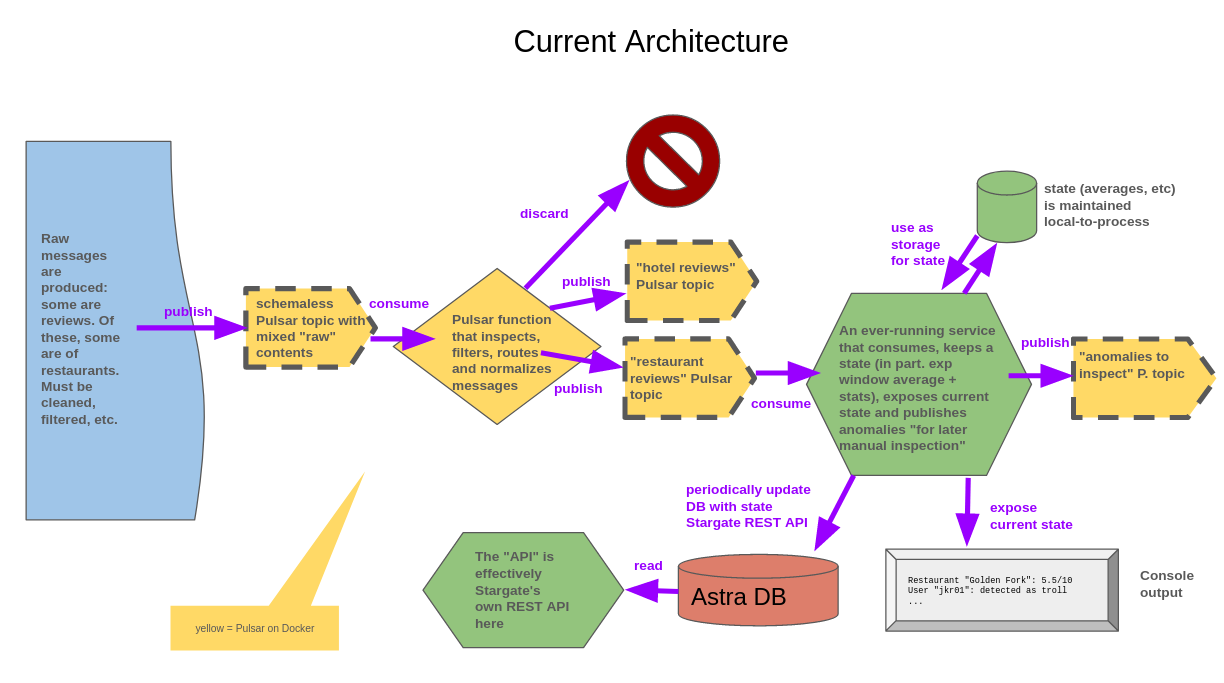
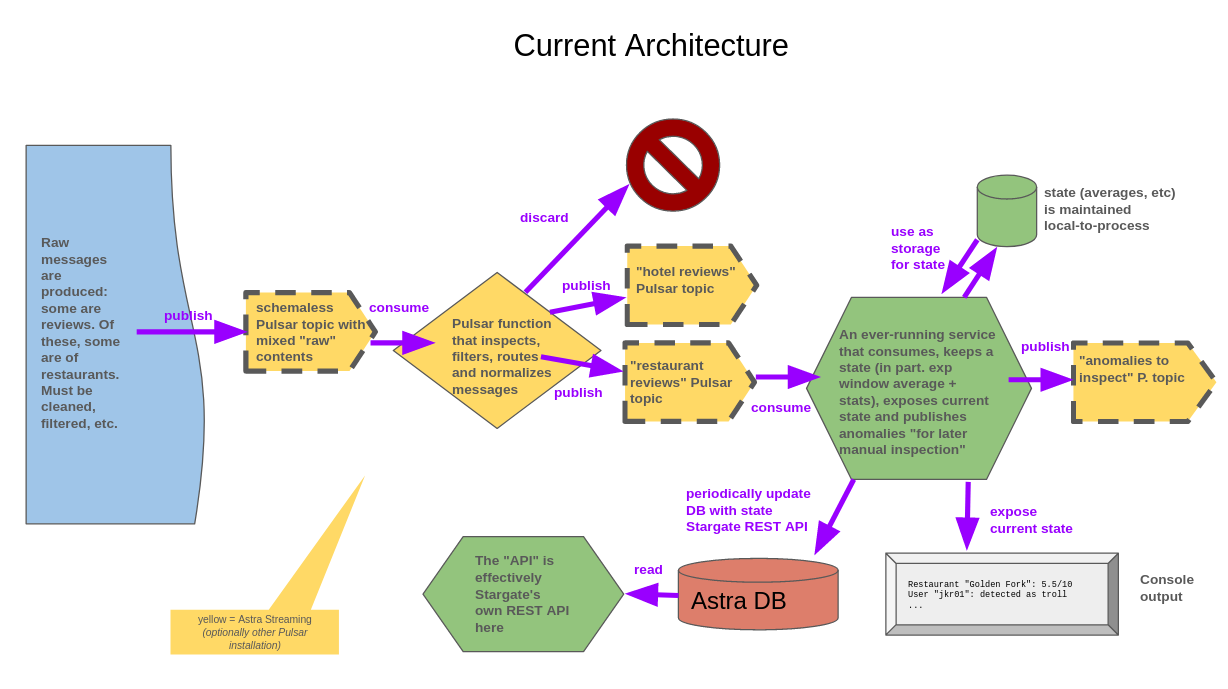
Pulsar -> Astra Streaming

diff --git a/pulsarTools/tools.py b/pulsarTools/tools.py
@@ -1,0 +1,47 @@
+""" tools.py """
+
+import os
+import pulsar
+
+from dotenv import load_dotenv
+
+
+load_dotenv()
+
+
+def _getRegularPulsarClient():
+    """Specialization for regular Pulsar."""
+    PULSAR_CLIENT_URL = os.environ['PULSAR_CLIENT_URL']
+    client = pulsar.Client(PULSAR_CLIENT_URL)
+    return client
+
+
+def _getAstraStreamingClient():
+    """Specialization for Astra Streaming connection."""
+    # Certificate location:
+    # Mac (also need 'brew install libpulsar')
+    # TRUST_CERTS = "/etc/ssl/cert.pem"
+    # RHEL/CentOS:
+    # TRUST_CERTS = '/etc/ssl/certs/ca-bundle.crt'
+    # Debian/Ubuntu:
+    TRUST_CERTS = '/etc/ssl/certs/ca-certificates.crt'
+    #
+    ASTRA_STREAMING_BROKER_URL = os.environ['ASTRA_STREAMING_BROKER_URL']
+    ASTRA_STREAMING_TOKEN = os.environ['ASTRA_STREAMING_TOKEN']
+    client = pulsar.Client(
+        ASTRA_STREAMING_BROKER_URL,
+        authentication=pulsar.AuthenticationToken(ASTRA_STREAMING_TOKEN),
+        tls_trust_certs_file_path=TRUST_CERTS,
+    )
+    return client
+
+
+def getPulsarClient():
+    """Create a Pulsar connection by using the dotenv variables."""
+    PULSAR_MODE = os.environ['PULSAR_MODE']
+    if PULSAR_MODE == 'pulsar':
+        return _getRegularPulsarClient()
+    elif PULSAR_MODE == 'astra_streaming':
+        return _getAstraStreamingClient()
+    else:
+        raise NotImplementedError('Unknown PULSAR_MODE detected')

diff --git a/revAnalyzer/review_analyzer.py b/revAnalyzer/review_analyzer.py
@@ -1,6 +1,5 @@
 #!/usr/bin/env python
 
-import pulsar
 import argparse
 import sys
 import json
@@ -8,11 +7,12 @@ import os
 from dotenv import load_dotenv
 import atexit
 
-from ReviewState import ReviewState
-from database.dataStorage import (initDB, updateReviewer, updateRestaurant,
-                                  updateIdSet)
+from pulsarTools.tools import getPulsarClient
+from revAnalyzer.ReviewState import ReviewState
+from revAnalyzer.database.dataStorage import (initDB, updateReviewer,
+                                              updateRestaurant, updateIdSet)
 
-from settings import (
+from revAnalyzer.settings import (
     ROLLING_AVERAGE_ALPHA,
     TROLLISH_S_THRESHOLD,
     TROLLISH_MIDREGION_WIDTH,
@@ -49,13 +49,12 @@ if __name__ == '__main__':
     parser.add_argument('-f', '--frequency', help='frequency of reporting (message count)', type=int, default=200)
     args = parser.parse_args()
     #
-    PULSAR_CLIENT_URL = os.environ['PULSAR_CLIENT_URL']
+    client = getPulsarClient()
+    #
     TENANT = os.environ['TENANT']
     NAMESPACE = os.environ['NAMESPACE']
     INPUT_TOPIC = os.environ['RESTAURANT_TOPIC']
     ANOMALIES_TOPIC = os.environ['ANOMALIES_TOPIC']
-    #
-    client = pulsar.Client(PULSAR_CLIENT_URL)
     #
     initDB()
     #

diff --git a/tools/reader.py b/tools/reader.py
@@ -1,11 +1,12 @@
 #!/usr/bin/env python
 
-import pulsar
 import argparse
 import sys
 import atexit
 import os
 from dotenv import load_dotenv
+
+from pulsarTools.tools import getPulsarClient
 
 
 load_dotenv()
@@ -36,9 +37,16 @@ if __name__ == '__main__':
     parser.add_argument('-n', '--number', help='max number of messages', default=None, type=int)
     args = parser.parse_args()
     #
-    PULSAR_CLIENT_URL = os.environ['PULSAR_CLIENT_URL']
-    client = pulsar.Client(PULSAR_CLIENT_URL)
-    consumer = client.subscribe(args.topic,
+    client = getPulsarClient()
+    #
+    TENANT = os.environ['TENANT']
+    NAMESPACE = os.environ['NAMESPACE']
+    topicToRead = 'persistent://{tenant}/{namespace}/{topic}'.format(
+        tenant=TENANT,
+        namespace=NAMESPACE,
+        topic=args.topic,
+    )
+    consumer = client.subscribe(topicToRead,
                                 subscription_name=args.subscription)
 
     @atexit.register

diff --git a/revGenerator/review_generator.py b/revGenerator/review_generator.py
@@ -3,12 +3,12 @@
 import json
 import itertools
 import os
-import pulsar
 import argparse
 from ratelimiter import RateLimiter
 from dotenv import load_dotenv
 
-from fake_reviews import createReview, initRandom
+from pulsarTools.tools import getPulsarClient
+from revGenerator.fake_reviews import createReview, initRandom
 
 load_dotenv()
 
@@ -25,11 +25,11 @@ if __name__ == '__main__':
     initRandom(args.seed)
 
     # init connection
-    PULSAR_CLIENT_URL = os.environ['PULSAR_CLIENT_URL']
+    client = getPulsarClient()
+    #
     TENANT = os.environ['TENANT']
     NAMESPACE = os.environ['NAMESPACE']
     RAW_TOPIC = os.environ['RAW_TOPIC']
-    client = pulsar.Client(PULSAR_CLIENT_URL)
     streamingTopic = 'persistent://{tenant}/{namespace}/{topic}'.format(
         tenant=TENANT,
         namespace=NAMESPACE,

diff --git a/revGenerator/test_data_creator.py b/revGenerator/test_data_creator.py
@@ -2,7 +2,7 @@
 
 import json
 
-from fake_reviews import createReview
+from revGenerator.fake_reviews import createReview
 
 TOT_SAMPLES = 100000
 

diff --git a/revGenerator/fake_reviews.py b/revGenerator/fake_reviews.py
@@ -3,7 +3,7 @@ import time
 import math
 import random
 
-from words import wordMap
+from revGenerator.words import wordMap
 
 
 NORMALOID_K = 1.4

diff --git a/revAnalyzer/ReviewState.py b/revAnalyzer/ReviewState.py
@@ -1,4 +1,4 @@
-from sentiment import textSentiment
+from revAnalyzer.sentiment import textSentiment
 
 class ReviewState(object):
 
